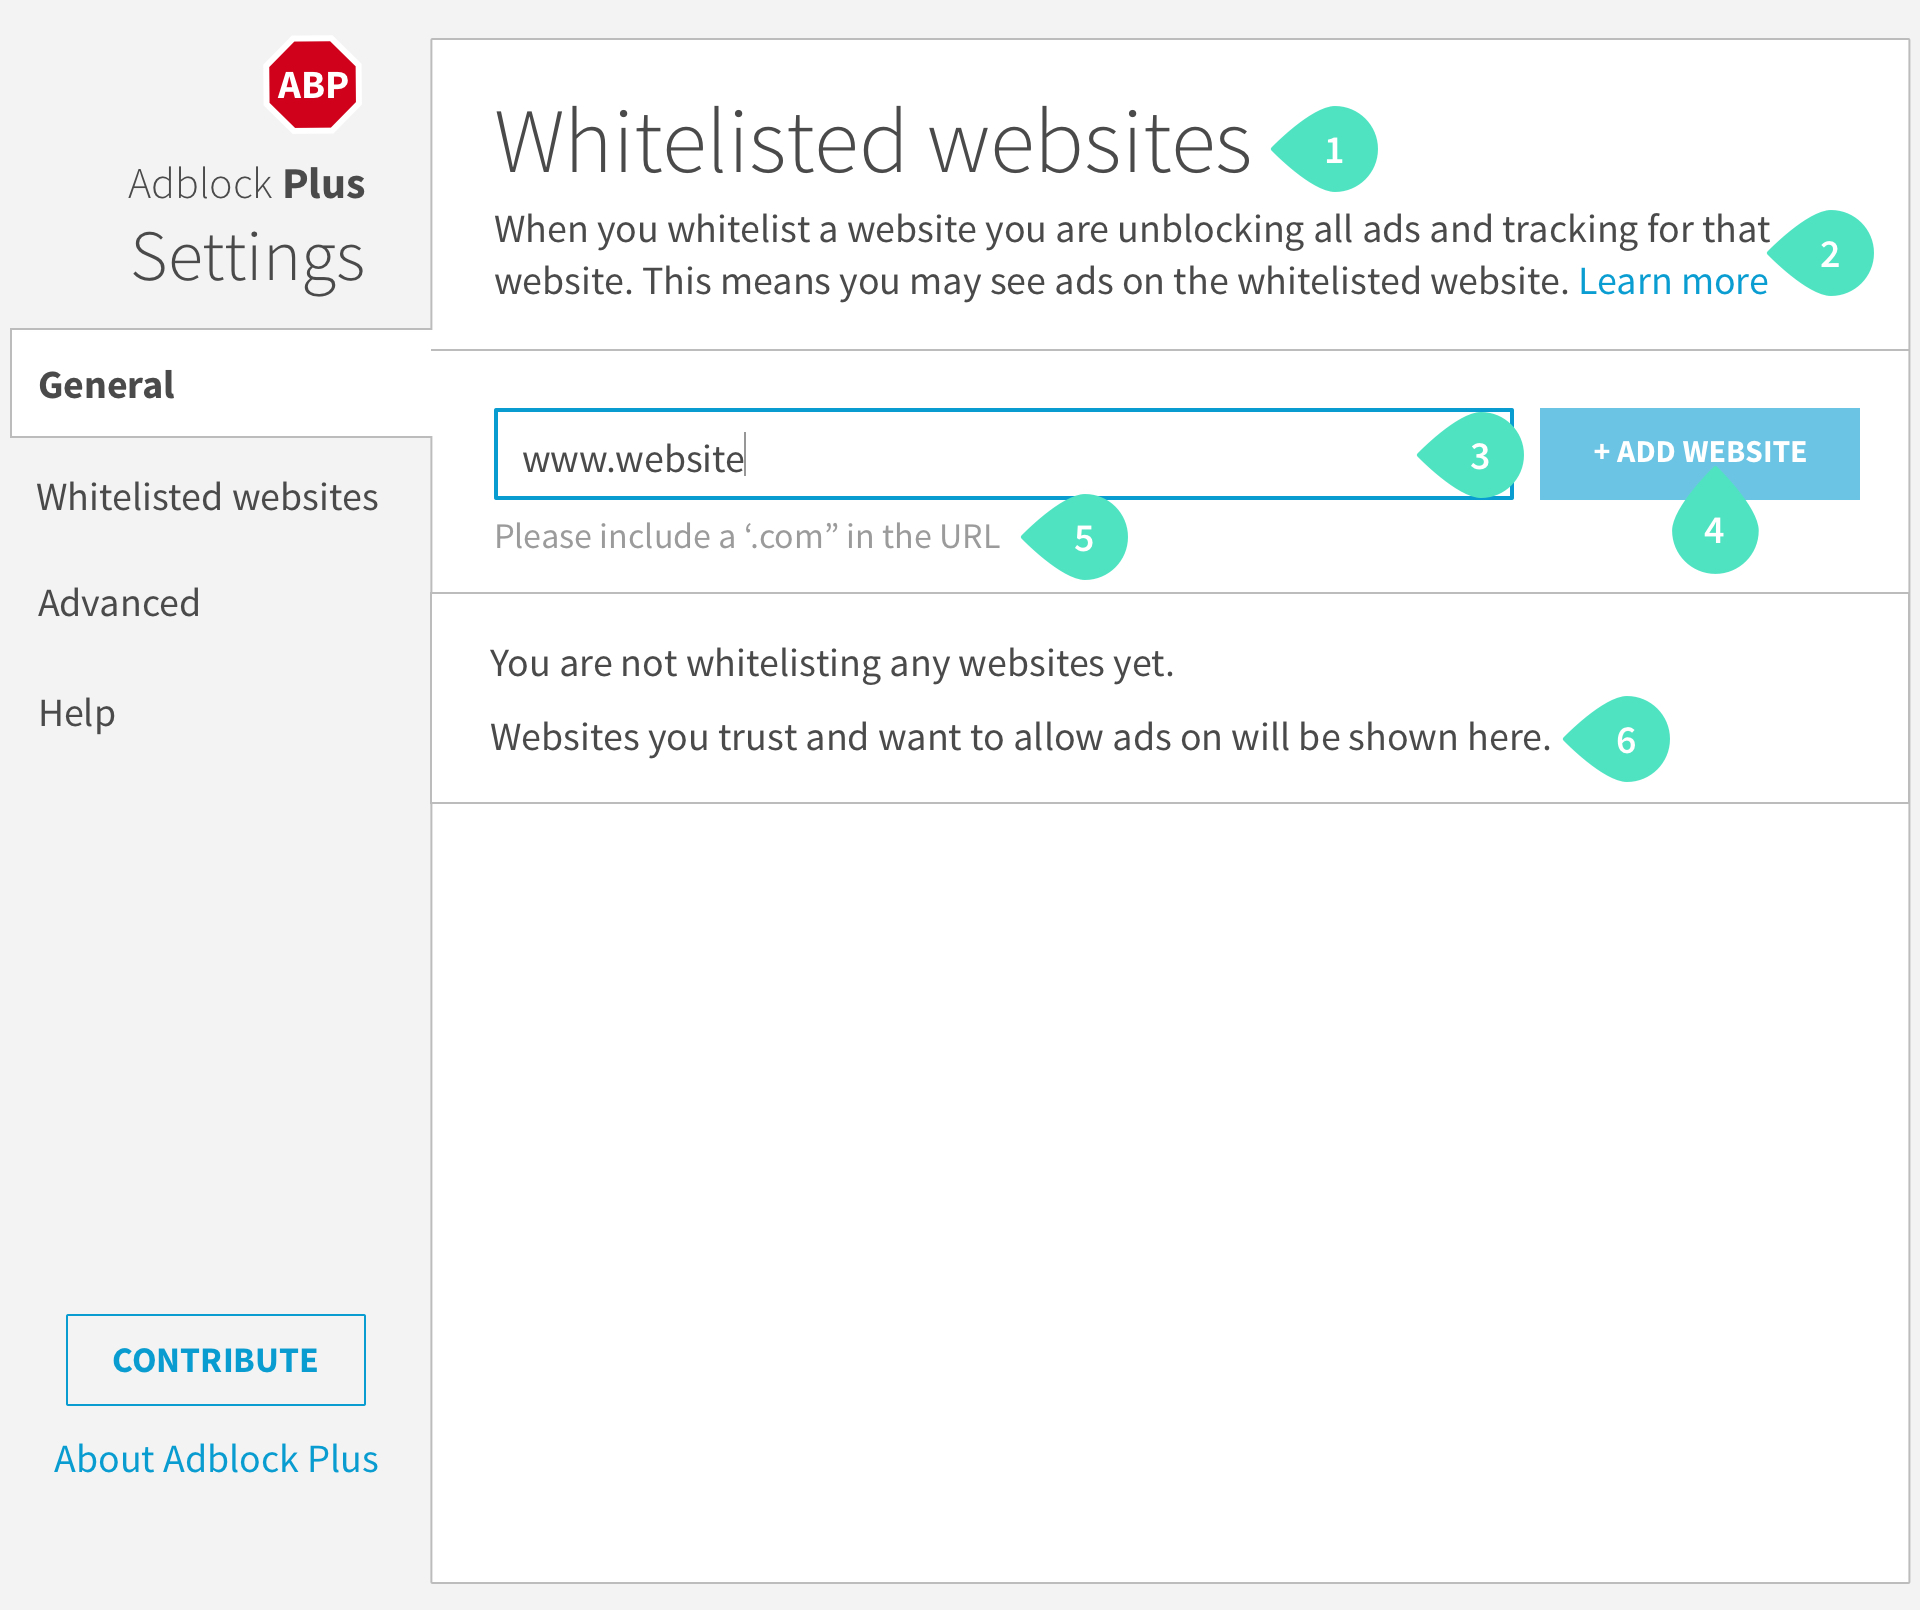
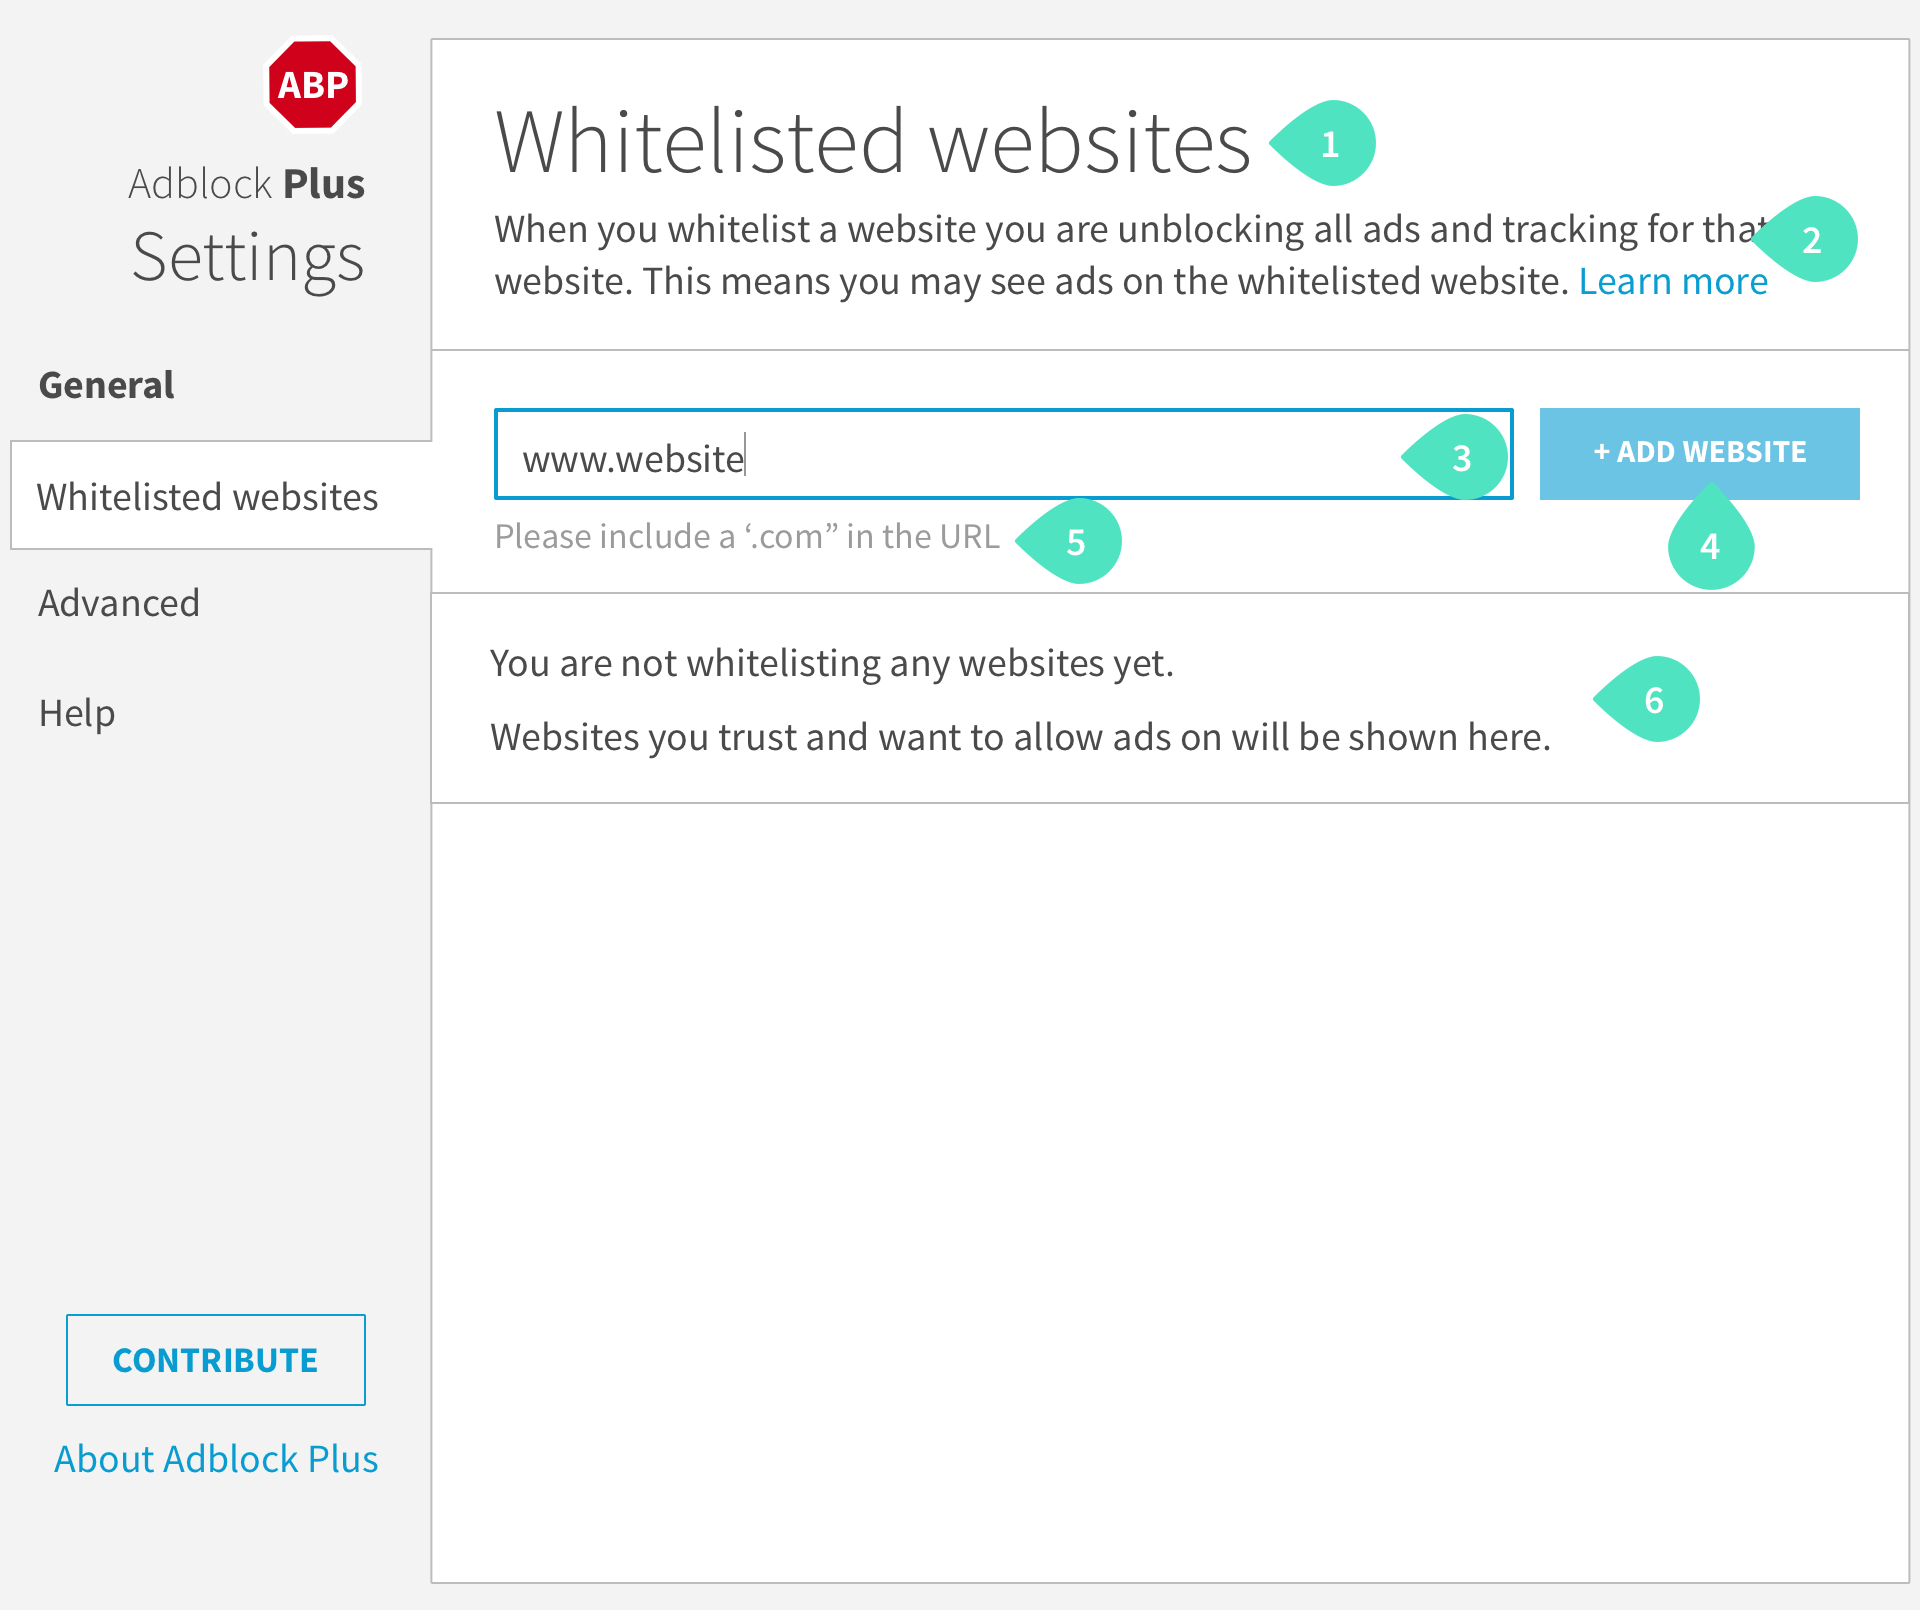
updated whitelisted images to show correct tab selection

diff --git a/spec/abp/options-page.md b/spec/abp/options-page.md
@@ -4,6 +4,7 @@ Options Page
 Options page for the ABP Browser extension.
 
 The options page is used to change various options of the ABP browser extension.
+<a name="top"></a>
 
 1. [Whitelist tab](#whitelist-tab)
 1. [Advanced tab](#advanced-tab)
@@ -35,8 +36,9 @@ Should implement the following [WCAG 2.0 Guidelines](http://www.w3.org/TR/2008/R
 
 Implement <https://www.w3.org/TR/2016/WD-wai-aria-practices-1.1-20161214/#tabpanel>
 
-Whitelist tab
+Whitelist tab 
 -------------
+<a href="#top">Back to top of page</a>
 
 ### Whitelist tab empty
 
@@ -133,7 +135,7 @@ If clicked the corresponding whitelisted domain is removed.
 ### Whitelisted domain added notification
 
 <!-- XXX: don't use html -->
-<img src='/res/abp/options-page/whitelisted-websites-notification.png'
+<img src='/res/abp/options-page/whitelisted-websites-notification.jpg'
   width='888px' />
 
 1. [Whitelisted domain added notification](#add-whitelisted-domain-button)
@@ -150,6 +152,7 @@ clicked or automatically after 2 seconds.
 
 Advanced tab
 ------------
+<a href="#top">Back to top of page</a>
 
 ### Advanced tab: Default
 
@@ -608,7 +611,9 @@ Additional subscriptions
 Assets
 -------------
 
-| Name | Asset |
+<a href="#top">Back to top of page</a>
+
+| Name | Asset | 
 |-----------|---------------|
 | attention.svg | <img src='/res/abp/options-page/assets/attention.svg' width='44px'/> |
 | box-circle.svg | <img src='/res/abp/options-page/assets/box-circle.svg' width='44px'/> |
@@ -624,6 +629,3 @@ Assets
 | tooltip.svg | <img src='/res/abp/options-page/assets/tooltip.svg' width='44px'/> |
 | trash.svg | <img src='/res/abp/options-page/assets/trash.svg' width='44px'/> |
 | twitter.svg | <img src='/res/abp/options-page/assets/twitter.svg' width='44px'/> |
-
-
-
